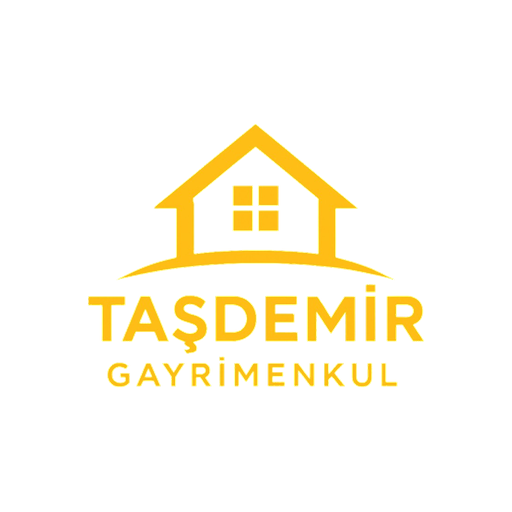
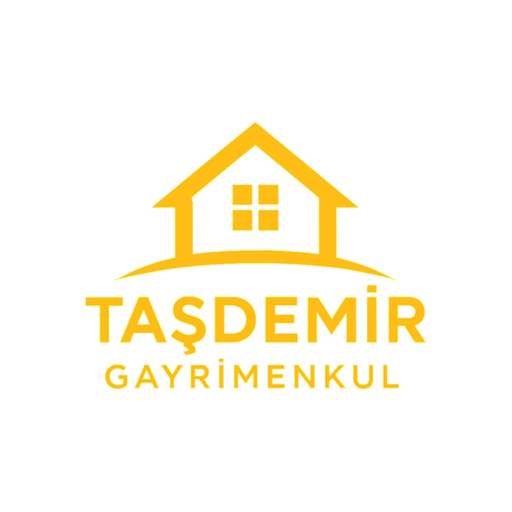
Add files via upload

diff --git a/sw.js b/sw.js
@@ -1,0 +1,5 @@
+const CACHE='emlak-sozlesme-v20260624-imza-duzeltme';
+const ASSETS=['./','./index.html','./manifest.webmanifest','./icon-192.png','./icon-512.png','./icon-maskable-512.png'];
+self.addEventListener('install',e=>{self.skipWaiting();e.waitUntil(caches.open(CACHE).then(c=>c.addAll(ASSETS)).catch(()=>{}));});
+self.addEventListener('activate',e=>{e.waitUntil(caches.keys().then(keys=>Promise.all(keys.filter(k=>k!==CACHE).map(k=>caches.delete(k)))));self.clients.claim();});
+self.addEventListener('fetch',e=>{if(e.request.method!=='GET')return;e.respondWith(fetch(e.request).then(r=>{const copy=r.clone();caches.open(CACHE).then(c=>c.put(e.request,copy)).catch(()=>{});return r}).catch(()=>caches.match(e.request).then(r=>r||caches.match('./index.html'))));});